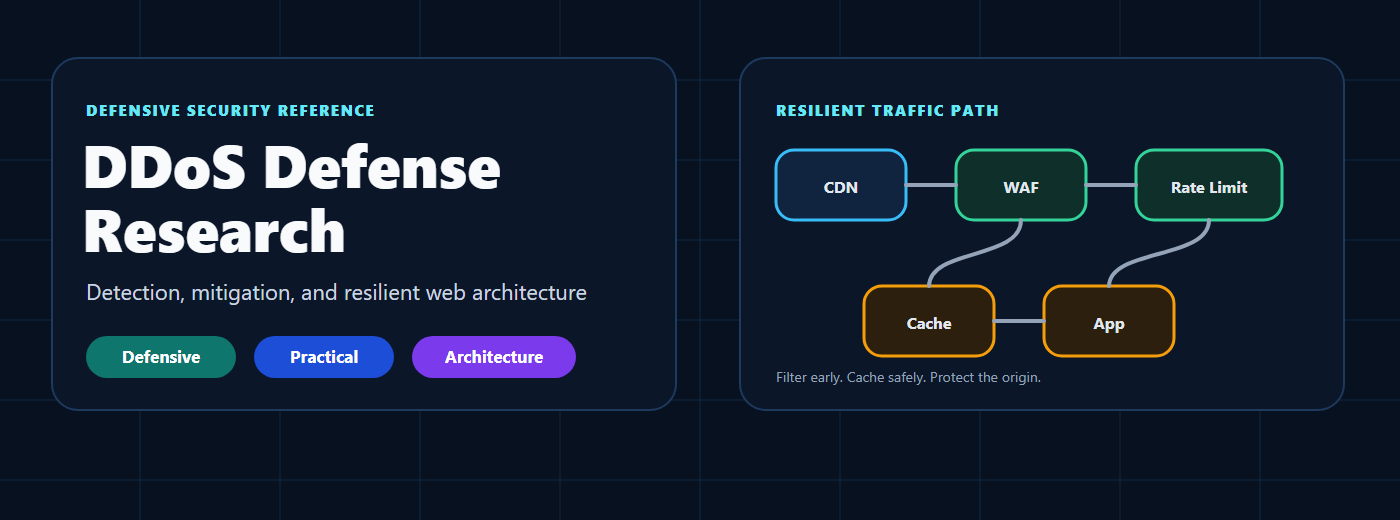
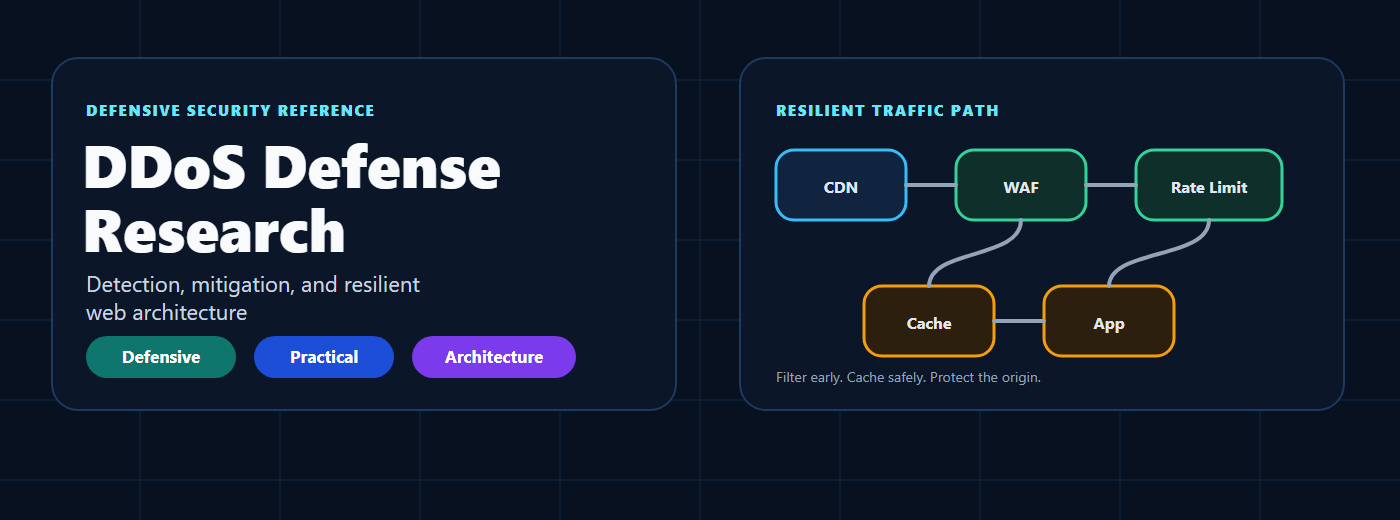
Fix visual overflow and improve README image readability

Changed region(s): [[0.0614, 0.5231, 0.43, 0.6154]]

diff --git a/README.md b/README.md
@@ -18,15 +18,18 @@ Persian version: [README.fa.md](README.fa.md)
 ## Visual Overview
 
 <p align="center">
-  <img src="assets/cards/architecture.svg" alt="Architecture card" width="31%">
-  <img src="assets/cards/detection.svg" alt="Detection card" width="31%">
-  <img src="assets/cards/mitigation.svg" alt="Mitigation card" width="31%">
+  <img src="assets/cards/architecture.svg" alt="architecture overview" width="48%">
+  <img src="assets/cards/detection.svg" alt="detection overview" width="48%">
 </p>
 
 <p align="center">
-  <img src="assets/cards/examples.svg" alt="Examples card" width="31%">
-  <img src="assets/cards/case-studies.svg" alt="Case studies card" width="31%">
-  <img src="assets/cards/lab.svg" alt="Defensive lab card" width="31%">
+  <img src="assets/cards/mitigation.svg" alt="mitigation overview" width="48%">
+  <img src="assets/cards/examples.svg" alt="examples overview" width="48%">
+</p>
+
+<p align="center">
+  <img src="assets/cards/case-studies.svg" alt="case-studies overview" width="48%">
+  <img src="assets/cards/lab.svg" alt="lab overview" width="48%">
 </p>
 
 <p align="center">

diff --git a/assets/README.md b/assets/README.md
@@ -4,6 +4,16 @@ This folder contains visual assets used by the README and repository profile.
 The README uses SVG files so they render cleanly on GitHub and stay lightweight.
 PNG copies are included for social preview uploads and external sharing.
 
+## Preview
+
+![Repository banner](hero.svg)
+
+![Repository overview](overview-grid.svg)
+
+![Mitigation layers](../diagrams/mitigation-layers.svg)
+
+Diagrams live in [../diagrams](../diagrams/README.md). SVG files are the editable sources; regenerate matching PNG exports when changing them.
+
 ## Large Images
 
 | Asset | Use |
